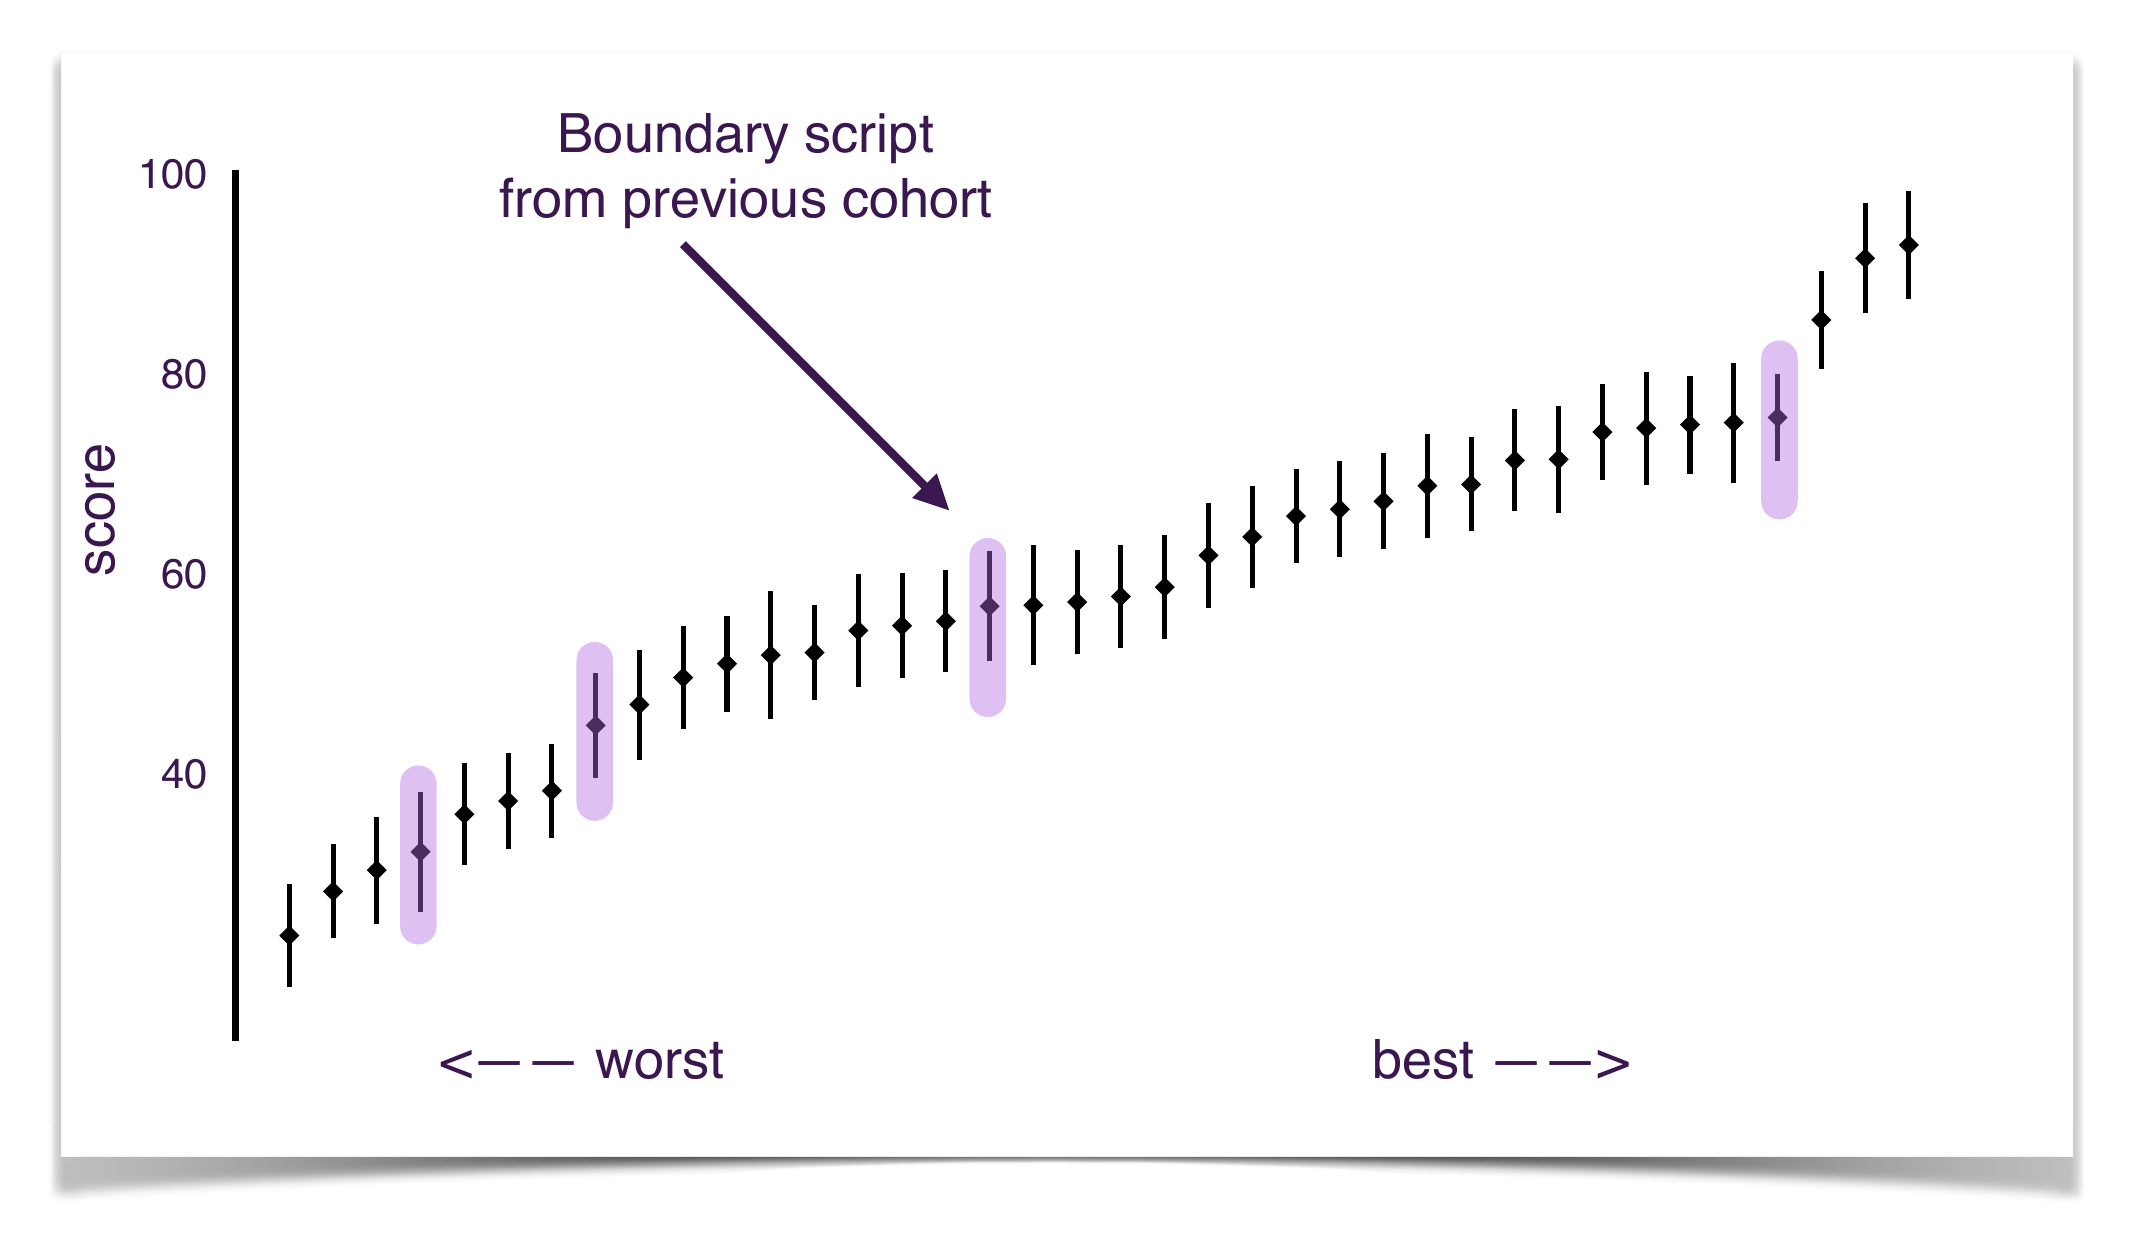
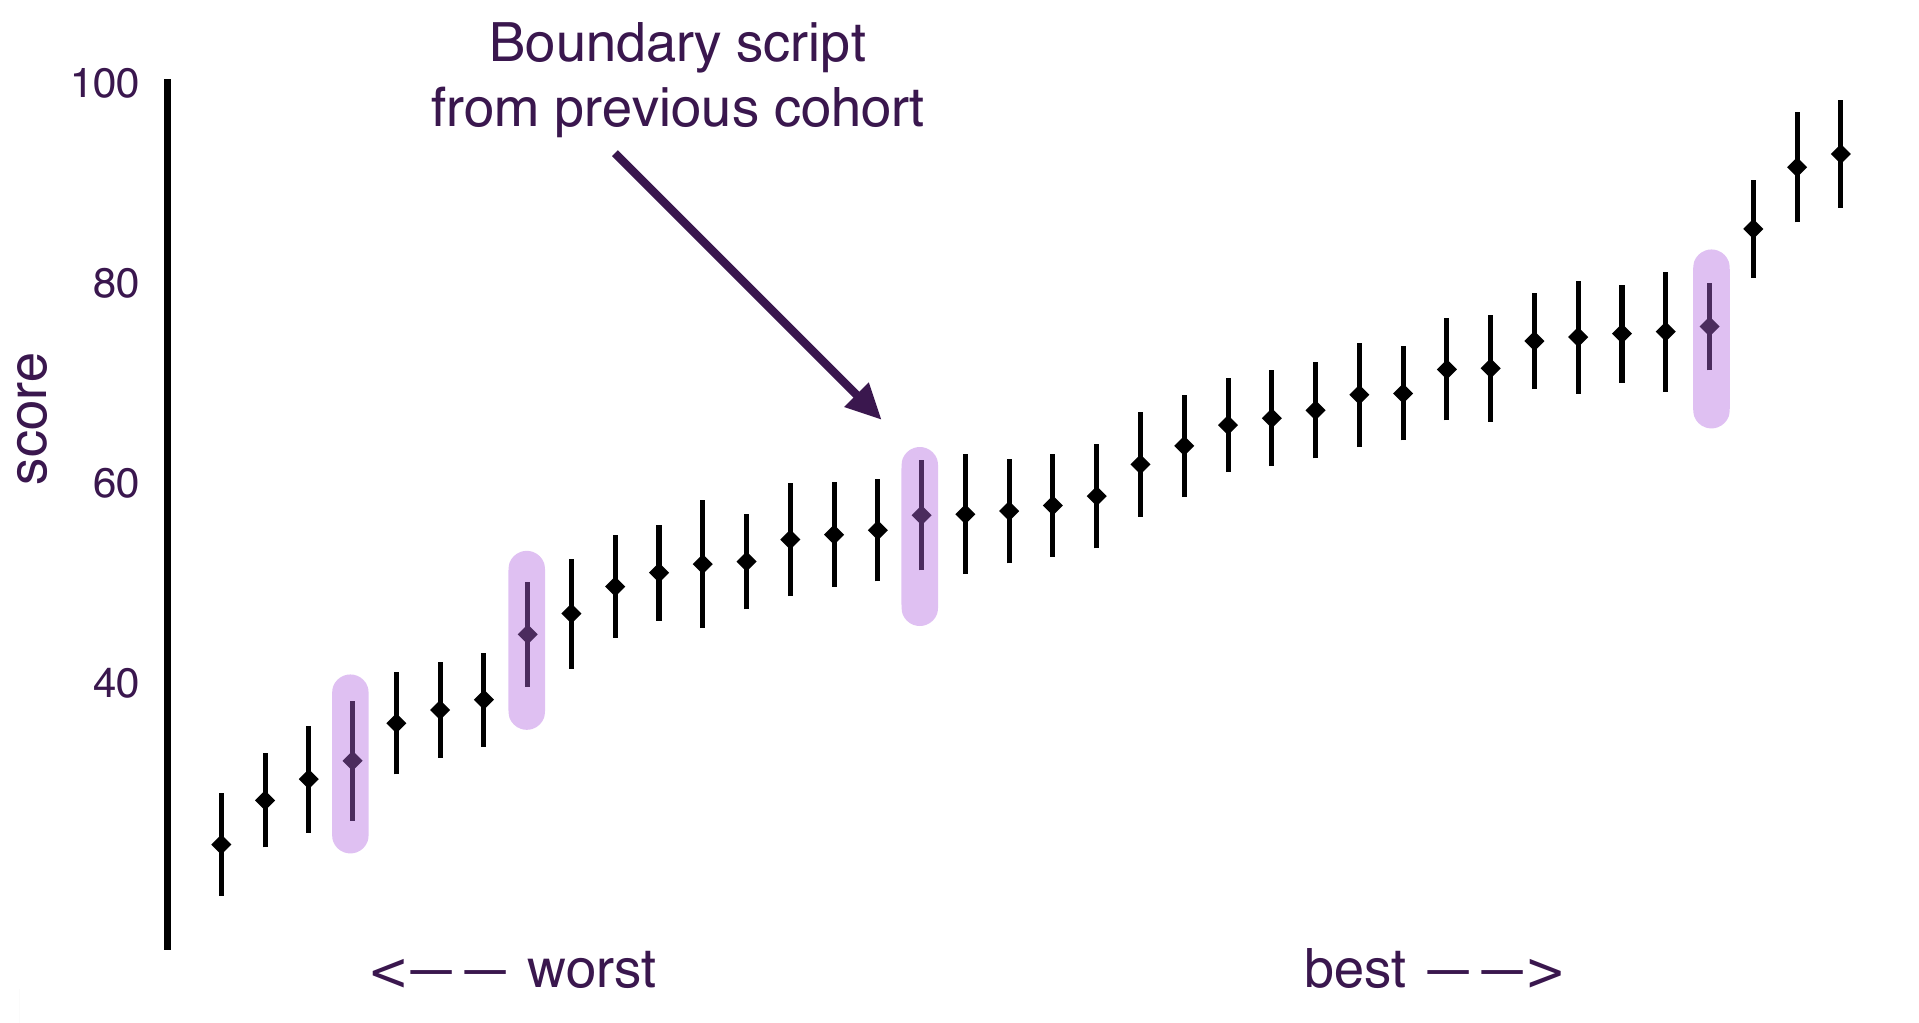
Grading page updated
Full redraft of the grading page.

diff --git a/docs/resources/moodle-plugin/user-guide/grading.md b/docs/resources/moodle-plugin/user-guide/grading.md
@@ -5,22 +5,66 @@ title: Grading and judgement data
 
 {% include moodle-guide-draft.html %}
 
-At the bottom of the page are three buttons that appear once some judgements have been completed:
+Three buttons appear at the bottom of the [Manage submissions](/resources/moodle-plugin/user-guide/managing/submissions.html) page once some judgements have been completed:
 
 | Button | Explanation |
 |---|---|
 | **Calculate scores** | Uses the comparisons made so far to calculate a score for each exemplar or submission. It will also calculate a reliability figure that will be displayed just above the **Calculate scores** button. This reliability figure is what is known as [Scale Separation Reliability](https://journals.sagepub.com/doi/10.1177/0146621617748321) and should be greater than 0.7 before you can be confident in your scores. If this figure is lower than 0.7 then add more judgements. Usually 10 judgements per submission is more than adequate. |
-| **Raw comparison data** | For advanced users, you can download the comparisons made and calculate your own scores offline. For support processing comparative judgement decisions offline see this user guide. **[To do: add link]** |
+| **Raw comparison data** | For advanced users, you can download the comparisons made and calculate your own scores offline. Guidance on processing comparative judgement decisions offline is coming soon on the CJRC website. |
 | **Copy grades to gradebook** | Click once all comparisons are complete to copy the grades to the Moodle gradebook. |
 
 Note that if you set the option to Enable comparison comments, there is an extra step to distribute the comments to students. On the “Comparison comments” page, press the button at the bottom of the table, Import comments. This copies across all comments received on a student's submission into the “Feedback comments” field.
 
-> **To do:** add text to explain this screenshot.
+## Student scores
 
-![Grading screenshot](/images/moodle-plugin/user-guide/grading-screenshot-1.png)
+Once you have clicked **Calculate scores**, the table on the Manage submissions page shows how each exemplar and submission fared in the comparisons.
 
-> **To do:** add text to explain this screenshot.
+![The Manage submissions table showing wins, losses and scores for each submission](/images/moodle-plugin/user-guide/grading-screenshot-1.png)
 
-![Grading screenshot](/images/moodle-plugin/user-guide/grading-screenshot-2.png)
+Each row is one exemplar or submission. Click **View** to see the work itself. The **Comparisons received** column tells you how many times the item has been judged, and **Time spent** and **Median time spent** show how long judges spent on the comparisons involving it. The **First comparison** and **Last comparison** dates show when it was first and most recently judged.
+
+**Wins** is the number of times the item was chosen as the better of the pair, and **Losses** is the number of times the other item was chosen. For example, in the screenshot above, submission 4059735 won 26 of its 32 comparisons, while submission 4059729 won only 4 of its 34.
+
+The **Score** is calculated from all the comparisons using a statistical model (the Bradley-Terry model). It is not simply the proportion of wins: the model also takes into account the strength of the items each one was compared against, so a win against strong work counts for more than a win against weak work. Scores are placed on a scale of 0 to 100, centred on around 65, with most scores falling between about 35 and 95. A higher score means the work was judged to be of higher quality. Click a column heading to sort the table, for example by **Score** to see the rank order of the work.
+
+Untick **Include in grading** to exclude an exemplar or submission. All comparisons involving it are then left out the next time you click **Calculate scores**. Exemplars are never copied to the gradebook, even when they are included in grading.
+
+## Grade boundaries
+
+A common concern about comparative judgement is the assumption that grades must be normative rather than criterion-based; that is, that a student judged amongst a high-achieving cohort will get a lower score than if they were judged amongst a low-achieving cohort. In fact this concern is unwarranted. The scores from a comparative judgement exercise can be used for criterion-based grading just like a set of scores from traditional marking. To do this we anchor the scores to an external reference that serves as the grade boundaries. We offer three methods for doing so.
+
+### Grade boundary exemplars at the moderation stage
+
+Grading can be done at the moderation stage, after the students have completed their peer judgements. Before you start your moderating judgements, add an [exemplar](/resources/moodle-plugin/user-guide/managing/exemplars.html) for each grade boundary. For example, if students are to receive a grade between 1 and 5, you would add an exemplar that reads “Grade boundary 1/2”, another that reads “Grade boundary 2/3”, and so on.
+
+When you do your moderating judgements, these grade boundary exemplars appear occasionally amongst the students' work. For each pair, decide whether the student's work is above or below that grade boundary.
+
+![A comparison between a Grade boundary 3/4 exemplar and a student's submission](/images/moodle-plugin/user-guide/grade34comp.png)
+
+The outcome is a rank order of the students' work with the grade boundaries fitted in between. Each student's grade is given by the boundaries their work falls between.
+
+![A rank order of student work with grade boundary exemplars placed between the submissions](/images/moodle-plugin/user-guide/grade_rank_order.png)
+
+### Grade boundary scripts
+
+A related method can be used if you already have pieces of student work that represent the grade boundaries. These boundary scripts can be taken from previous cohorts, or identified by independently marking a handful of the current scripts. For example, in a [study of secondary statistics in New Zealand](https://doi.org/10.1007/s40841-020-00163-3), six boundary scripts published by the national qualifications authority to exemplify levels of achievement were added to the students' work. The comparative judgement process placed all six in the correct order, from lowest to highest grade.
+
+Add the boundary scripts as [exemplars](/resources/moodle-plugin/user-guide/managing/exemplars.html). With this method the boundary scripts can be included before the students make their judgements, or added at the moderation stage. After you click **Calculate scores**, the position of the boundary scripts in the rank order shows where the grade boundaries fall.
+
+![Scores in rank order, with the boundary scripts from a previous cohort highlighted](/images/moodle-plugin/user-guide/grading-screenshot-2.png)
+
+### Breaks in the scores
+
+Alternatively, you can create grade boundaries by scrutinising the scores arising from the comparative judgement. This method is described in a [study of secondary science](https://doi.org/10.1080/0969594X.2014.978839), in which teachers applied grade boundaries to the scaled rank order of their students' test responses.
+
+1. Decide how many grades you need.
+2. Sort the submissions by score and look at the rank order, ideally as a chart of scores like the one below. Look for natural breaks, where there is a noticeable jump in score between neighbouring pieces of work.
+3. Starting at one end of the scale, propose a boundary at a break.
+4. Read the work either side of the proposed boundary and adjust the boundary up or down by one or two pieces of work if needed.
+5. Repeat for each of the remaining boundaries.
+
+![Scores in rank order with grade boundaries drawn at breaks in the scores](/images/moodle-plugin/user-guide/grade_scale_breaks.png)
+
+Once the boundaries are agreed, you can also write a short description of the work within each grade, drawing on the work itself. In the science study these level descriptors were given to students along with their grade.
 
 {% include moodle-guide-nav.html %}
